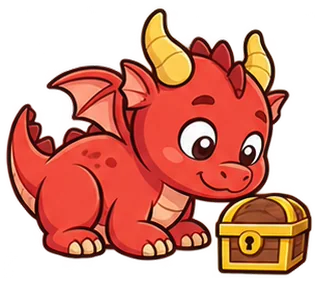
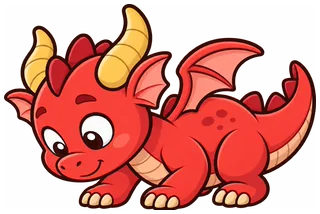
Separate scene props from character sprites

diff --git a/GoiTenVuiNhon/games/g4-dragon.js b/GoiTenVuiNhon/games/g4-dragon.js
@@ -53,17 +53,17 @@
       if (te >= 0) {
         const D = r.decoy, Wn = r.winner;
         if (r.plain) {
-          if (te < 1) return { ...at(D || Wn), pose: te < .8 ? 'dragon_02' : 'dragon_01' };
-          const o = at(Wn); return { ...o, pose: te < 1.3 ? 'dragon_04' : 'dragon_01' };
+          if (te < 1) return { ...at(D || Wn), pose: te < .8 ? 'dragon_02' : 'dragon_01', flip: te >= .8 };
+          const o = at(Wn); return { ...o, pose: te < 1.3 ? 'dragon_04' : 'dragon_01', flip: te >= 1.3 };
         }
-        if (te < 1.1) return { ...at(D), pose: te < .6 ? 'dragon_03' : 'dragon_01' };
-        if (te < 1.6) return { ...at(D), pose: 'dragon_05' };
+        if (te < 1.1) return { ...at(D), pose: te < .6 ? 'dragon_03' : 'dragon_01', flip: te >= .6 };
+        if (te < 1.6) return { ...at(D), pose: 'dragon_05', flip: true };
         return { ...at(D), pose: 'dragon_06' };
       }
-      if (f) { const o = layout(r, rt).get(f.p); return { x: o.x + 115, y: o.y + 65 - hop * .6, pose: Math.floor(rt * 6) % 2 ? 'dragon_02' : 'dragon_03', flip: o.x > 800 }; }
+      if (f) { const o = layout(r, rt).get(f.p); return { x: o.x + 115, y: o.y + 65 - hop * .6, pose: Math.floor(rt * 6) % 2 ? 'dragon_02' : 'dragon_03' }; }
       const px = 800 + Math.sin(rt * 1.35) * 540, py = 745 + Math.cos(rt * 2.1) * 55 - hop;
-      const poses = ['dragon_01', 'dragon_02', 'dragon_04', 'dragon_02'];
-      return { x: px, y: py, pose: poses[Math.floor(rt * 3.8) % 4], flip: Math.cos(rt * 1.35) < 0 };
+      const left = Math.cos(rt * 1.35) < 0;
+      return { x: px, y: py, pose: left ? 'dragon_02' : 'dragon_01' };
     },
 
     tick(r, t, te) {
@@ -77,7 +77,7 @@
         if (te > 1.5) cue('d', () => { outcome('selected', Wn); SFX.wheee(); r.banner = '✨ A chest slides out of the gold pile!'; });
       } else {
         if (te > 0) cue('a', () => { Music.play('tension'); outcome('almost_selected', D || Wn); r.banner = '🐉 The dragon sniffs ' + (D || Wn).name + "'s chest…"; });
-        if (te > .8) cue('b', () => { SFX.boing(); r.banner = '🙅 …not this one!'; });
+        if (D && te > .8) cue('b', () => { SFX.boing(); r.banner = '🙅 …not this one!'; });
         if (te > 1.1) cue('c', () => { outcome('selected', Wn); SFX.sparkle(); r.banner = '🐉 The dragon has chosen a chest!'; });
       }
       if (te > 2.7) cue('open', () => { SFX.sparkle(); SFX.pop(); FX.coins(STAGE[0], STAGE[1] - 60, 16, STAGE[1] + 10); FX.sparkle(STAGE[0], STAGE[1] - 70, 30); });
@@ -130,8 +130,8 @@
 
     idle(t) {
       SLABS.forEach(([x, y], i) => drawImg('chest_' + String(i + 1).padStart(2, '0'), x, y + 14 - Math.abs(Math.sin(t * 2 + i)) * 6, CHEST_W, { anchor: 'bottom' }));
-      const hop = Math.abs(Math.sin(t * 6)) * 24, poses = ['dragon_01', 'dragon_02', 'dragon_04', 'dragon_02'];
-      drawImg(poses[Math.floor(t * 3.5) % 4], 800 + Math.sin(t * 1.25) * 520, 755 + Math.cos(t * 1.9) * 45 - hop, 230, { anchor: 'bottom', flip: Math.cos(t * 1.25) < 0 });
+      const hop = Math.abs(Math.sin(t * 6)) * 24, left = Math.cos(t * 1.25) < 0;
+      drawImg(left ? 'dragon_02' : 'dragon_01', 800 + Math.sin(t * 1.25) * 520, 755 + Math.cos(t * 1.9) * 45 - hop, 230, { anchor: 'bottom' });
     },
     onFinish() { FX.coins(STAGE[0], STAGE[1] - 120, 36, STAGE[1] + 20); },
     winBanner: r => '💎 The treasure belongs to ' + r.winner.name + '!',

diff --git a/GoiTenVuiNhon/games/g2-eggs.js b/GoiTenVuiNhon/games/g2-eggs.js
@@ -57,7 +57,7 @@
 
     render(r, t) {
       const rt = r.now, te = rt - r.TW, done = r.phase === 'done', f = activeFake(r, rt), D = r.decoy, Wn = r.winner;
-      drawImg('winner_nest', WIN_NEST[0], WIN_NEST[1] + 20, 230, { anchor: 'bottom' });
+      if (!done) drawImg('winner_nest', WIN_NEST[0], WIN_NEST[1] + 20, 230, { anchor: 'bottom' });
       // mother dinosaur patrols and inspects nests actively
       const walk = Math.sin(rt * 1.25) * 210, hopD = Math.abs(Math.sin(rt * 5)) * 14;
       let dx = 310 + walk, dy = 895 - hopD, dpose = ['dino_idle', 'dino_pointing', 'dino_thinking', 'dino_idle'][Math.floor(rt * 2) % 4], flip = Math.cos(rt * 1.25) < 0;
@@ -65,7 +65,7 @@
       if (!r.plain && te > 1.1 && !done) {
         const [ex, ey] = this.winnerEgg(r, te), side = r.dinoFrom > 800 ? 1 : -1;
         dx = lerp(r.dinoFrom, ex + side * 130, ease(clamp((te - 1.1) / .5))); dy = ey + 40;
-        dpose = te < 2.6 ? 'dino_tail_roll_egg' : 'dino_pointing'; flip = side < 0;
+        dpose = te < 2.6 ? 'dino_tail_roll_egg' : 'dino_pointing'; flip = side > 0;
       } else if (r.plain && te > 1 && !done) dpose = 'dino_pointing';
       if (done) { dx = WIN_NEST[0] + 230; dy = WIN_NEST[1] + 30 - Math.abs(Math.sin(rt * 6)) * 12; dpose = 'dino_celebrate'; flip = false; }
       if (te > .7 && te < 1.1 && !r.plain) dpose = 'dino_shocked';
@@ -104,7 +104,7 @@
         charImg(Wn.av, 'win', WIN_NEST[0], WIN_NEST[1] + 10, 250 * (.6 + .4 * ease(k)));
         tagC(Wn.name, WIN_NEST[0], WIN_NEST[1] + 40, true);
       }
-      drawImg(dpose, dx, dy, dpose === 'dino_tail_roll_egg' ? 330 : 220, { anchor: 'bottom', flip });
+      drawImg(dpose, dx, dy, dpose === 'dino_tail_roll_egg' ? 235 : 220, { anchor: 'bottom', flip });
     },
 
     idle(t) {

diff --git a/GoiTenVuiNhon/sw.js b/GoiTenVuiNhon/sw.js
@@ -1,4 +1,4 @@
-const CACHE_NAME = 'name-picker-vol1-v19';
+const CACHE_NAME = 'name-picker-vol1-v20';
 const PRECACHE = [
   "./",
   "./index.html",
